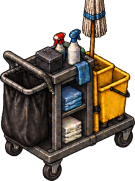
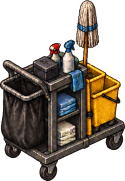
Auditoria da arte: esfregão inteiro, costas do vaso no lugar, livros nos 4 giros
- moveis.py: o recorte de cada vista apaga só os pixels dos outros
  pedaços da folha, e não tudo o que cai na caixa deles (a caixa da vista
  de cima comia a ponta do esfregão do carrinho de limpeza).
- Vaso sanitário: as duas costas voltam ao lugar (a troca de hoje estava
  errada: a conferência automática dos eixos não serve para peça que não
  é caixa).
- Pilha de livros nos 4 giros (a folha tinha as costas, com as páginas).

diff --git a/shared/src/furni.ts b/shared/src/furni.ts
@@ -122,7 +122,7 @@ const FURNI_METERS: FurniDef[] = [
   { id: 'blood_drops', name: 'Respingos de Sangue', category: 'ocultismo', kind: 'blood_small', width: 1, depth: 1, height: 0.01, walkable: true, stackable: true, flat: true, rotations: [0], colors: ['#6e0b0b'] },
   { id: 'skull', name: 'Crânio', category: 'ocultismo', kind: 'skull', width: 1, depth: 1, height: 0.3, rotations: ALL, colors: ['#d8cfb8'] },
   { id: 'table_tools', name: 'Mesa das Ferramentas', category: 'ocultismo', kind: 'desk', width: 2, depth: 1, height: 0.8, stackable: true, rotations: ALL, colors: ['#4a3020', '#2e1d12', '#9a7a4a'], desc: 'Mesa rústica com a faca cerimonial, o giz, a tigela, a corda e as velas.' },
-  { id: 'books_stack', name: 'Pilha de Livros', category: 'ocultismo', kind: 'books', width: 1, depth: 1, height: 0.4, stackable: true, rotations: [4, 2], colors: ['#5a2320', '#2f3f5a', '#4a4a2a'] },
+  { id: 'books_stack', name: 'Pilha de Livros', category: 'ocultismo', kind: 'books', width: 1, depth: 1, height: 0.4, stackable: true, rotations: ALL, colors: ['#5a2320', '#2f3f5a', '#4a4a2a'] },
   { id: 'bookshelf', name: 'Estante de Livros', category: 'ocultismo', kind: 'bookshelf', width: 2, depth: 1, height: 2.2, rotations: ALL, colors: ['#3d2819', '#2a1b11'] },
 
   // ---------- Iluminação ----------

diff --git a/scripts/3d/moveis.py b/scripts/3d/moveis.py
@@ -129,8 +129,8 @@ def gravar(a, p):
     fitz.Pixmap(fitz.csRGB, w, h, np.ascontiguousarray(a).tobytes(), True).save(p)
 
 
-def pedacos(alfa, red=4):
-    """Os objetos da folha: caixas dos pedaços ligados (numa grade reduzida), em ordem de leitura."""
+def rotular(alfa, red=4):
+    """Os pedaços ligados numa grade reduzida (red x red pixels por célula): o rótulo de cada célula (-1 = vazia)."""
     h, w = alfa.shape[0] // red, alfa.shape[1] // red
     m = alfa[:h * red, :w * red].reshape(h, red, w, red).max(axis=(1, 3))
     rot = np.where(m, np.arange(h * w).reshape(h, w), -1)
@@ -143,6 +143,46 @@ def pedacos(alfa, red=4):
         if (novo == rot).all():
             break
         rot = novo
+    return rot
+
+
+_ROTULOS = {}
+
+
+def rotulos_da_folha(folha, red=4):
+    """Os rótulos dos pedaços da folha e a caixa de cada um (guardados: a folha é a mesma em toda a ficha)."""
+    chave = (id(folha), folha.shape)
+    if chave not in _ROTULOS:
+        rot = rotular(folha[:, :, 3] > 16, red)
+        caixa_de = {}
+        for r in np.unique(rot[rot >= 0]):
+            ys, xs = np.nonzero(rot == r)
+            caixa_de[(int(xs.min() * red), int(ys.min() * red), int((xs.max() + 1) * red), int((ys.max() + 1) * red))] = int(r)
+        _ROTULOS[chave] = (rot, red, caixa_de)
+    return _ROTULOS[chave]
+
+
+def apagar_vizinhos(folha, caixas, i, rec, x0, y0):
+    """
+    Apaga do recorte só os pixels que são dos outros pedaços (e não tudo o que cai na caixa
+    deles: a caixa do vizinho pode passar por cima de um pedaço deste, a ponta do esfregão).
+    False quando as caixas não são as dos pedaços (caixas à mão): aí vale o jeito antigo.
+    """
+    rot, red, caixa_de = rotulos_da_folha(folha)
+    chave = lambda c: tuple(int(v) for v in c)
+    if chave(caixas[i]) not in caixa_de or any(chave(c) not in caixa_de for c in caixas):
+        return False
+    outros = [caixa_de[chave(c)] for j, c in enumerate(caixas) if j != i]
+    h, w = rec.shape[:2]
+    yy = (np.arange(y0, y0 + h) // red).clip(0, rot.shape[0] - 1)
+    xx = (np.arange(x0, x0 + w) // red).clip(0, rot.shape[1] - 1)
+    rec[np.isin(rot[np.ix_(yy, xx)], outros), 3] = 0
+    return True
+
+
+def pedacos(alfa, red=4):
+    """Os objetos da folha: caixas dos pedaços ligados (numa grade reduzida), em ordem de leitura."""
+    rot = rotular(alfa, red)
     caixas = []
     for r in np.unique(rot[rot >= 0]):
         ys, xs = np.nonzero(rot == r)
@@ -162,28 +202,20 @@ def pedacos(alfa, red=4):
 
 
 def recortar(folha, caixas, i):
-    x0, y0, x1, y1 = caixas[i]
-    rec = folha[y0:y1, x0:x1].copy()
-    for j, (a0, b0, a1, b1) in enumerate(caixas):
-        if j == i:
-            continue
-        ix0, iy0, ix1, iy1 = max(a0, x0), max(b0, y0), min(a1, x1), min(b1, y1)
-        if ix0 < ix1 and iy0 < iy1:
-            rec[iy0 - y0:iy1 - y0, ix0 - x0:ix1 - x0, 3] = 0
-    ys, xs = np.nonzero(rec[:, :, 3] > 16)
-    return rec[ys.min():ys.max() + 1, xs.min():xs.max() + 1]
+    return recortar_origem(folha, caixas, i)[0]
 
 
 def recortar_origem(folha, caixas, i):
-    """Como recortar, e onde o recorte começa na folha (x, y)."""
+    """O pedaço i da folha, sem os pixels dos outros pedaços, e onde o recorte começa na folha (x, y)."""
     x0, y0, x1, y1 = caixas[i]
     rec = folha[y0:y1, x0:x1].copy()
-    for j, (a0, b0, a1, b1) in enumerate(caixas):
-        if j == i:
-            continue
-        ix0, iy0, ix1, iy1 = max(a0, x0), max(b0, y0), min(a1, x1), min(b1, y1)
-        if ix0 < ix1 and iy0 < iy1:
-            rec[iy0 - y0:iy1 - y0, ix0 - x0:ix1 - x0, 3] = 0
+    if not apagar_vizinhos(folha, caixas, i, rec, x0, y0):
+        for j, (a0, b0, a1, b1) in enumerate(caixas):
+            if j == i:
+                continue
+            ix0, iy0, ix1, iy1 = max(a0, x0), max(b0, y0), min(a1, x1), min(b1, y1)
+            if ix0 < ix1 and iy0 < iy1:
+                rec[iy0 - y0:iy1 - y0, ix0 - x0:ix1 - x0, 3] = 0
     ys, xs = np.nonzero(rec[:, :, 3] > 16)
     return rec[ys.min():ys.max() + 1, xs.min():xs.max() + 1], (x0 + xs.min(), y0 + ys.min())
 
